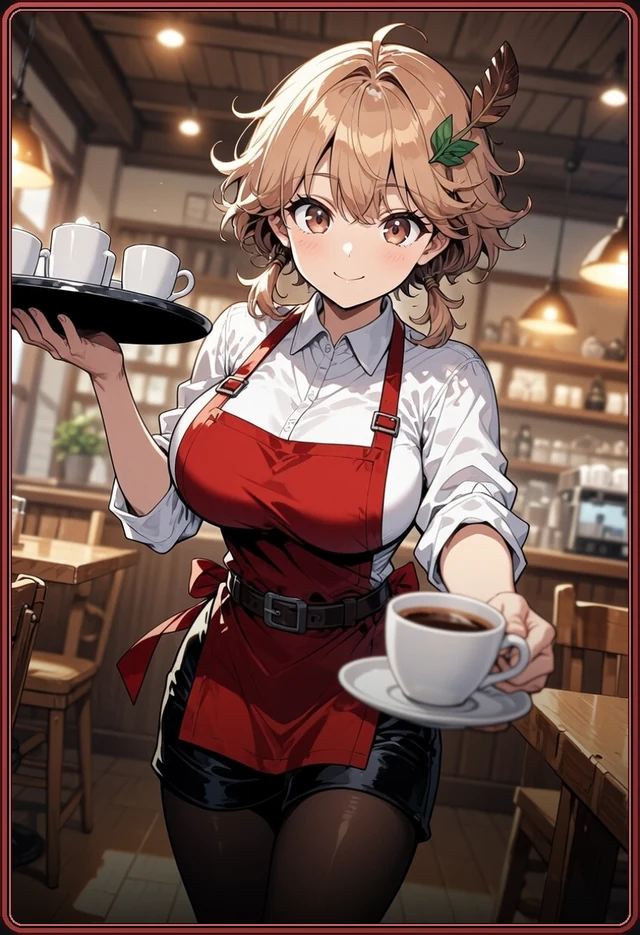
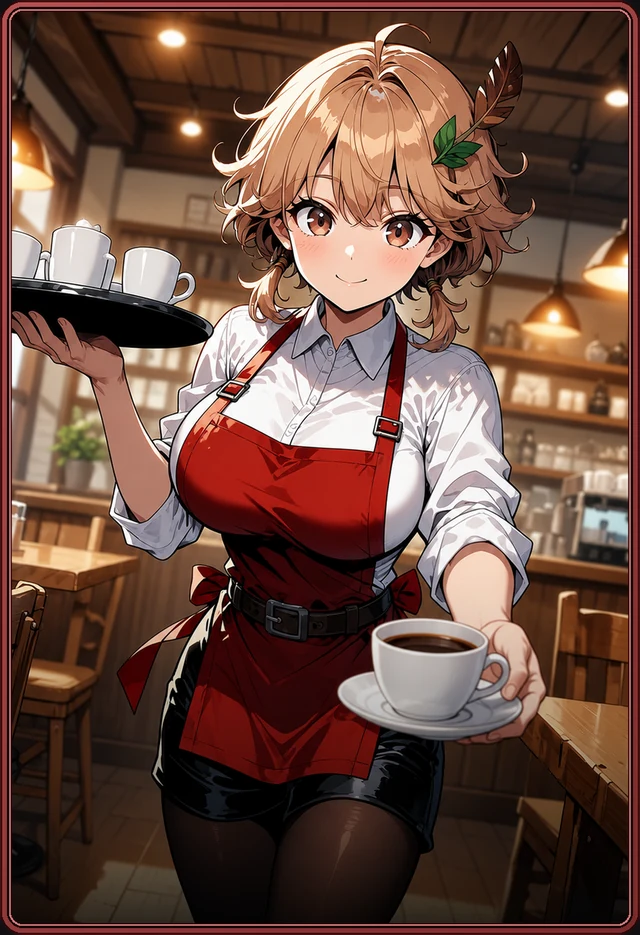
カード説明ページのレビュー反映・UC見本の画像を差し替え
文面（user レビュー）
- タイプ相性の本文を短く。スピード/テクニックを「アクションボタン」基準の
  操作説明へ。パワーも同じ言い回しにそろえた
- コスト・特技・エース効果・MND・スキルの各文を差し替え
- 特技7つの説明を全面差し替え。「※エース効果によって付与できるキャラもおり、
  特技を強化できるキャラもいる」を追加（付与3種・強化7種の実在を確認済み）
- ⚠「ニュートラルは同コストで他タイプよりステータスが高い傾向」は不採用。
  実データでは5段階中2つしか最高でなく、3つはパワーが最高だった
- ⚠誤字を訂正: AYK→ATK / 使用する方→使用すること / まだ→また
- ⚠「勢力変更」→ 実在する名前の「勢力変換」へ（旧文の「タイプ変更」も同様に「タイプ変換」）

画像
- UC見本 MNTN-BS-017 の原本が差し替えられていたのでカードを作り直し
  （jpg → png。羽根飾りと葉が追加された版）

Claude-Session: https://claude.ai/code/session_017RyA8KcanFPoLYt93BbMMG

diff --git a/game-card-content.html b/game-card-content.html
@@ -289,14 +289,14 @@
             また、枠の色は<a href="game-deck.html">勢力</a>を表す。</p>
             <div class="section-body rar-note">
                 <p>※バトルで使用できるエース効果は3つまでとしているため、試合毎に適切な選択を行う必要がある。</p>
-                <p>※詳しくは<a href="game-battle.html">バトル</a>のページにて記載</p>
+                <p>（詳しくは<a href="game-battle.html">バトル</a>のページにて記載）</p>
             </div>
         </div>
 
         <div class="game-section" data-reveal>
             <h2 class="section-title">TYPE MATCHUP &amp; TYPE DETAILS</h2>
             <p class="section-lead">相性が生む、有利と不利。</p>
-            <p class="section-body">3つのタイプがじゃんけんのように噛み合う三すくみ。ダメージに倍率はかからない。相手の戦い方を封じられるかどうかで、有利と不利が決まる。</p>
+            <p class="section-body">3つのタイプはそれぞれ特徴があり、三すくみによる有利・不利がある。</p>
             <div class="type-matchup-fig">
             <div class="triangle-wrap">
                 <svg class="triangle-svg" viewBox="0 0 420 360" aria-hidden="true">
@@ -341,7 +341,7 @@
                             <div class="type-meta">POWER</div>
                         </div>
                     </div>
-                    <ul class="type-acts"><li>爪オーラが触れた敵に継続ダメージを与える。</li><li>速い敵に当てると牙撃が発動し、スタン＋大ダメージをあたえる。</li><li>旋刃は長押しで発動。爪オーラが周囲を一周する。</li></ul>
+                    <ul class="type-acts"><li>爪オーラが触れた敵に継続ダメージを与える。</li><li>速い敵に当てると牙撃が発動し、スタン＋大ダメージをあたえる。</li><li>アクションボタンを長押しすると旋刃が発動し、爪オーラが周囲を一周する。</li></ul>
                 </article>
                 <article class="type-card speed">
                     <div class="type-icon-bg"><img src="assets/icons/type-speed.webp" alt=""></div>
@@ -352,7 +352,7 @@
                             <div class="type-meta">SPEED</div>
                         </div>
                     </div>
-                    <ul class="type-acts"><li>走り続けると猛突状態になり、最初の乱闘で与えるダメージが上がる。</li><li>剛突は猛突状態で長押しして発動。前方へ突進する。</li></ul>
+                    <ul class="type-acts"><li>カードを動かし続けると猛突状態になり、敵に接触すると猛突ダメージを与える。</li><li>更に猛突状態でアクションボタンを長押しすると、前方へ移動しながら攻撃する剛突が発生する。</li></ul>
                 </article>
                 <article class="type-card technique">
                     <div class="type-icon-bg"><img src="assets/icons/type-technique.webp" alt=""></div>
@@ -363,7 +363,7 @@
                             <div class="type-meta">TECHNIQUE</div>
                         </div>
                     </div>
-                    <ul class="type-acts"><li>静止しているとき、射程内の敵へ自動で投石する。</li><li>獣玉は押して溜め、離すと発射。着弾地点の範囲にダメージを与える。</li></ul>
+                    <ul class="type-acts"><li>静止しているとき、射程内の敵へ自動で一定間隔で投石する。</li><li>アクションボタンを押して一定時間溜めると獣玉を使用することができる。</li><li>獣玉は着弾地点の範囲内にいるキャラにダメージを与える。</li></ul>
                 </article>
                 <article class="type-card neutral">
                     <div class="type-icon-bg"><img src="assets/icons/type-neutral.webp" alt=""></div>
@@ -382,7 +382,7 @@
         <div class="game-section" data-reveal>
             <h2 class="section-title">COST</h2>
             <p class="section-lead">出せる数と、一体の強さ。</p>
-            <p class="section-body">デッキに登録できるキャラは最大8枚、合計コスト8以内。</p>
+            <p class="section-body">デッキに登録できるキャラは最大8枚、合計コスト8以内で構築する必要がある。</p>
             <ol class="cost-steps">
                     <li><span class="cost-step__n">1</span></li>
                     <li><span class="cost-step__n">1.5</span></li>
@@ -392,15 +392,18 @@
             </ol>
             <div class="cost-notes">
                 <p>コストが高いほどATK・DEF・MNDが高く、タイプごとのアクションも強くなる。</p>
-                <p>敵を退却させると、そのコストのぶんだけ味方のBGが溜まる。</p>
+                <p>敵を退却させると、そのコストのぶんだけ退却させた味方のBGが溜まる。</p>
                 <p>味方が退却すると、そのコストのぶんだけ味方の天牙ゲージが溜まる。</p>
             </div>
         </div>
 
         <div class="game-section" data-reveal>
             <h2 class="section-title">TRAITS</h2>
-            <p class="section-lead">特技。一部のキャラだけが持つ。</p>
-            <p class="section-body">タイプとは別に、そのキャラだけに備わった力。常にはたらき、戦い方そのものを変える。</p>
+            <p class="section-lead">特技。一部のキャラだけが持つ個性。</p>
+            <p class="section-body">タイプとは別に、そのキャラだけに備わった力。戦い方そのものを変える。</p>
+            <div class="section-body rar-note">
+                <p>※エース効果によって付与できるキャラもおり、特技を強化できるキャラもいる。</p>
+            </div>
             <div class="trait-ring-wrap">
                 <div class="trait-ring" id="traitRing">
                     <button type="button" class="trait-node" aria-label="奇襲" data-i="0" aria-pressed="true">
@@ -436,7 +439,7 @@
         <div class="game-section" data-reveal>
             <h2 class="section-title">ACE EFFECT</h2>
             <p class="section-lead">エースが、デッキの方針を決める。</p>
-            <p class="section-body">攻撃特化やスキル強化、タイプ変更など50種類以上のエース効果がデッキの方針を決める。<br>エース効果次第でキャラの運用が大きく変わり、戦いは一変する。</p>
+            <p class="section-body">ATK・DEF・MND上昇やスキル・タイプ・勢力変換など50種類以上のエース効果がデッキの方針を決める。<br>エース効果次第でキャラの運用が大きく変わり、戦いは一変する。</p>
 
         </div>
 
@@ -459,7 +462,7 @@
                 <article class="stat-item mnd">
                     <div class="stat-key">MND</div>
                     <div class="stat-body">
-                        <p>この数値が高いほど、押し合いで相手を押し出しやすくなる。<br>また、スキルの持続時間や縄張りゲージを削る速さにも影響する。</p>
+                        <p>この数値が高いほど、乱闘時に相手を押し出しやすくなる。<br>また、スキルの持続時間や侵攻ゲージの進み具合にも影響する。</p>
                     </div>
                 </article>
             </div>
@@ -468,7 +471,7 @@
         <div class="game-section" data-reveal>
             <h2 class="section-title">SKILL</h2>
             <p class="section-lead">場を変える、固有の力。</p>
-            <p class="section-body">キャラごとに固有の力を持つ。強化や回復、妨害など、いろんな効果がある。</p>
+            <p class="section-body">キャラごとに固有の力を持つ。<br>全体強化や回復、妨害、罠など、様々な効果がある。</p>
             <div class="rar-note">
                 <p>※詳細はバトルにて記載</p>
             </div>
@@ -689,13 +692,13 @@
     if (!ring) return;
     /* ⚠説明文はここが唯一の置き場。HTML側には持たせない（2箇所に書くとズレるため） */
     var DESC = [
-        '姿を隠して進む。見つからなければ、そのまま懐まで入れる。',
-        '出撃した時点で、すでにBGゲージが溜まっている。',
-        '縄張りを速く、深く削る。代わりに足が遅い。',
-        '体が大きい。乱闘に巻き込まれても縄張りを削り続ける。',
-        '壊れた門の前に立つと、門が直る。',
-        '巣穴での回復が速い。',
-        '自分が倒れたとき、天牙ゲージが多く溜まる。'
+        '移動速度は遅くなるが、姿を隠して進むことができる。奇襲状態で敵に接触したときにダメージを与える。',
+        '試合開始時にBGゲージが一定量溜まっている。',
+        '移動速度は遅くなるが、縄張りゲージを削るスピードが早い。',
+        '体が大きく、乱闘中でも侵攻し続けることができる。',
+        '壊れた門の前に立つと、門を治すことができる。また一定量縄張りゲージを回復することが可能になる。',
+        '巣穴でより早く回復することができる。',
+        '退却したときの天牙ゲージが多く溜まる。'
     ];
     var NAMES = ['奇襲', '王気', '石割', '巨体', '修理', '休眠', '星読'];
     var nodes = [].slice.call(ring.querySelectorAll('.trait-node'));
